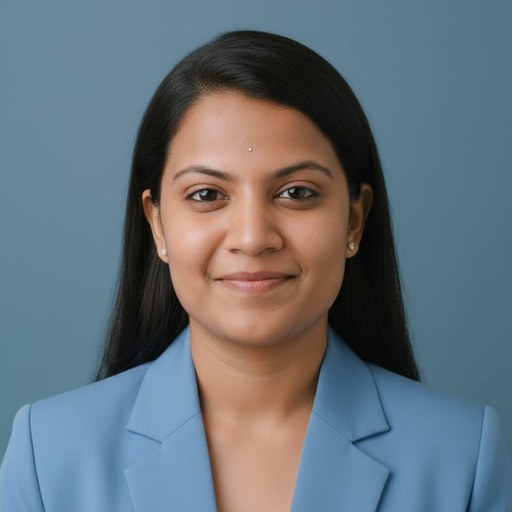
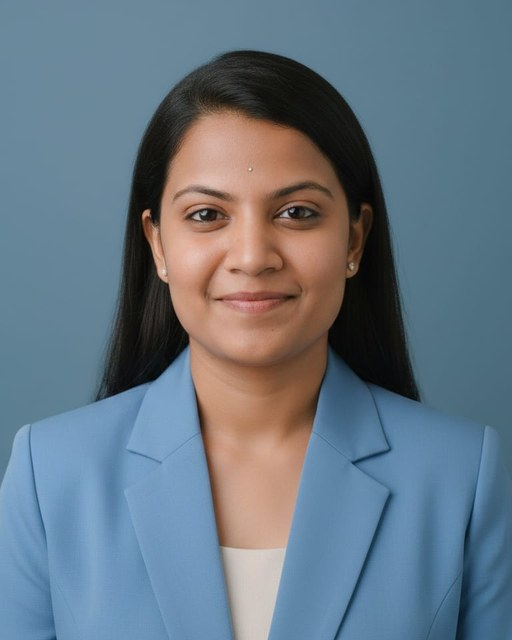
Use 4:5 portrait hero photo showing head and shoulders

diff --git a/src/components/sections/hero.tsx b/src/components/sections/hero.tsx
@@ -119,20 +119,20 @@ export function Hero() {
           transition={{ duration: 0.6, delay: 0.15 }}
           className="order-1 flex justify-center md:order-2 md:justify-end"
         >
-          <div className="relative">
+          <div className="relative w-36 sm:w-44 lg:w-52">
             <div
-              className="absolute -inset-2 rounded-full bg-primary/20 blur-xl"
+              className="absolute -inset-3 rounded-3xl bg-primary/15 blur-2xl"
               aria-hidden="true"
             />
-            <div className="relative h-36 w-36 overflow-hidden rounded-full border-2 border-primary/40 bg-card shadow-[0_0_40px_-10px_hsl(var(--primary)/0.6)] sm:h-44 sm:w-44 lg:h-52 lg:w-52">
+            <div className="relative aspect-[4/5] overflow-hidden rounded-2xl border border-primary/30 bg-card shadow-[0_0_40px_-12px_hsl(var(--primary)/0.55)]">
               <img
                 src={profile.photoUrl}
                 alt={`Portrait of ${profile.name}`}
-                width={400}
-                height={400}
+                width={512}
+                height={640}
                 loading="eager"
                 decoding="async"
-                className="h-full w-full object-cover"
+                className="h-full w-full object-cover object-[center_18%]"
               />
             </div>
           </div>

diff --git a/README.md b/README.md
@@ -17,7 +17,7 @@ All text lives in one file: `src/data/portfolio.ts`.
 
 ## Replace before publishing
 
-1. **Photo** — already set at `public/photo.jpg` (square 512×512). Replace with a newer photo any time, keeping the name.
+1. **Photo** — already set at `public/photo.jpg` (portrait 4:5, 512×640). Replace with a newer photo any time, keeping the filename and roughly the same portrait ratio.
 2. **Resume** — replace `public/resume.pdf` with your real resume.
 3. **Dates** — update every `dates: "[Dates]"` entry in `experience`.
 4. **Canonical / OG URLs** — update `https://devasainandini.dev/` in `index.html` and the JSON-LD block to your real domain.
